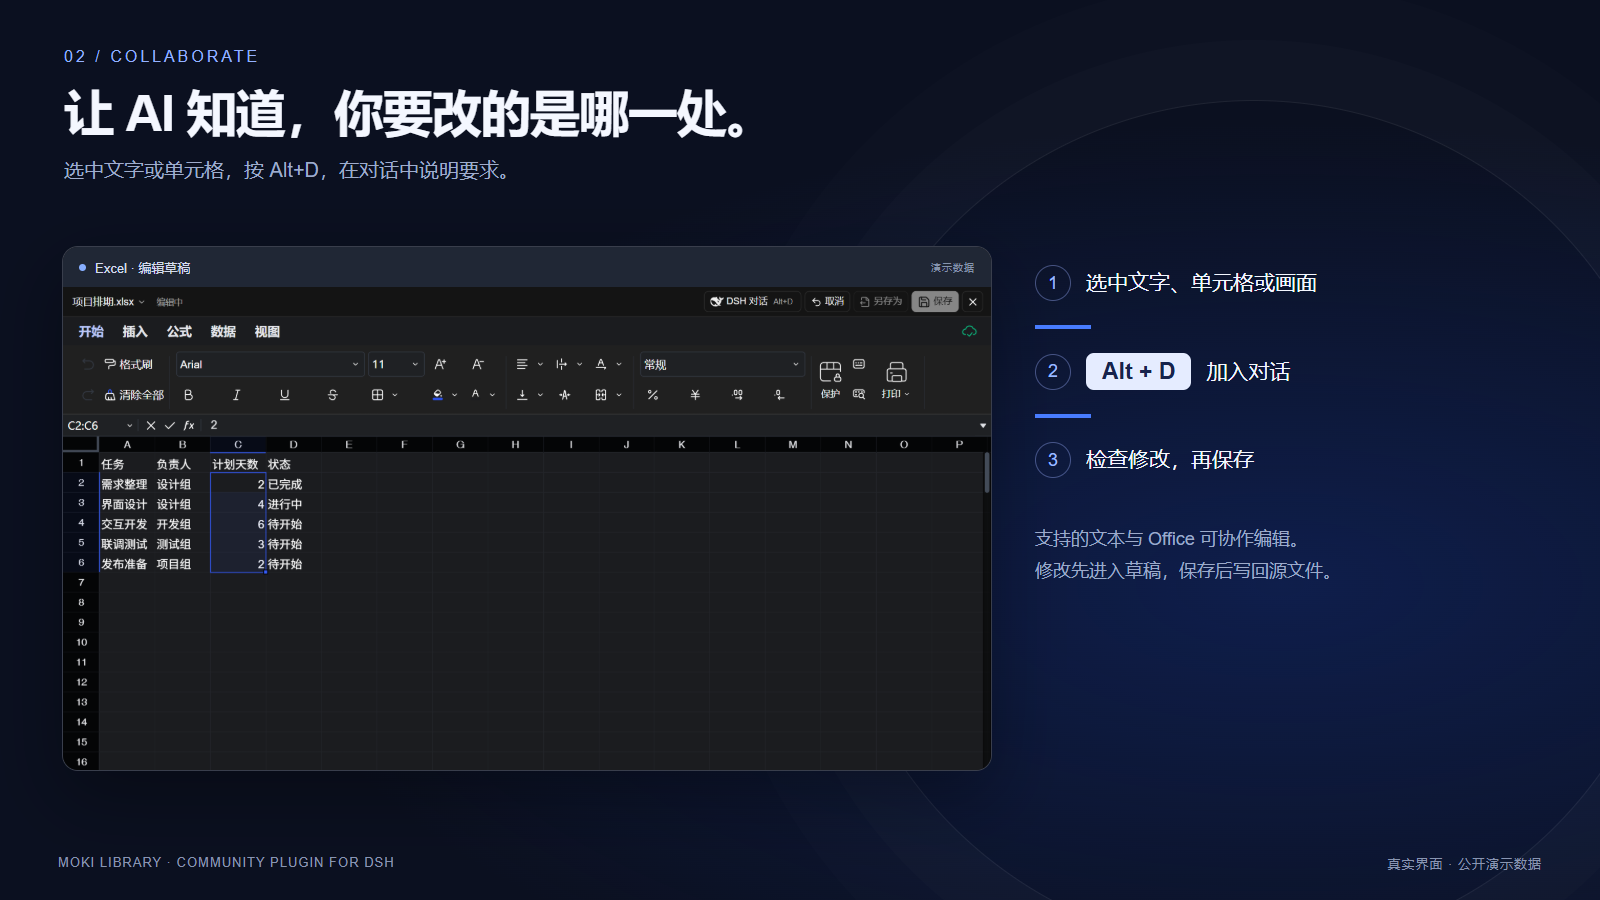
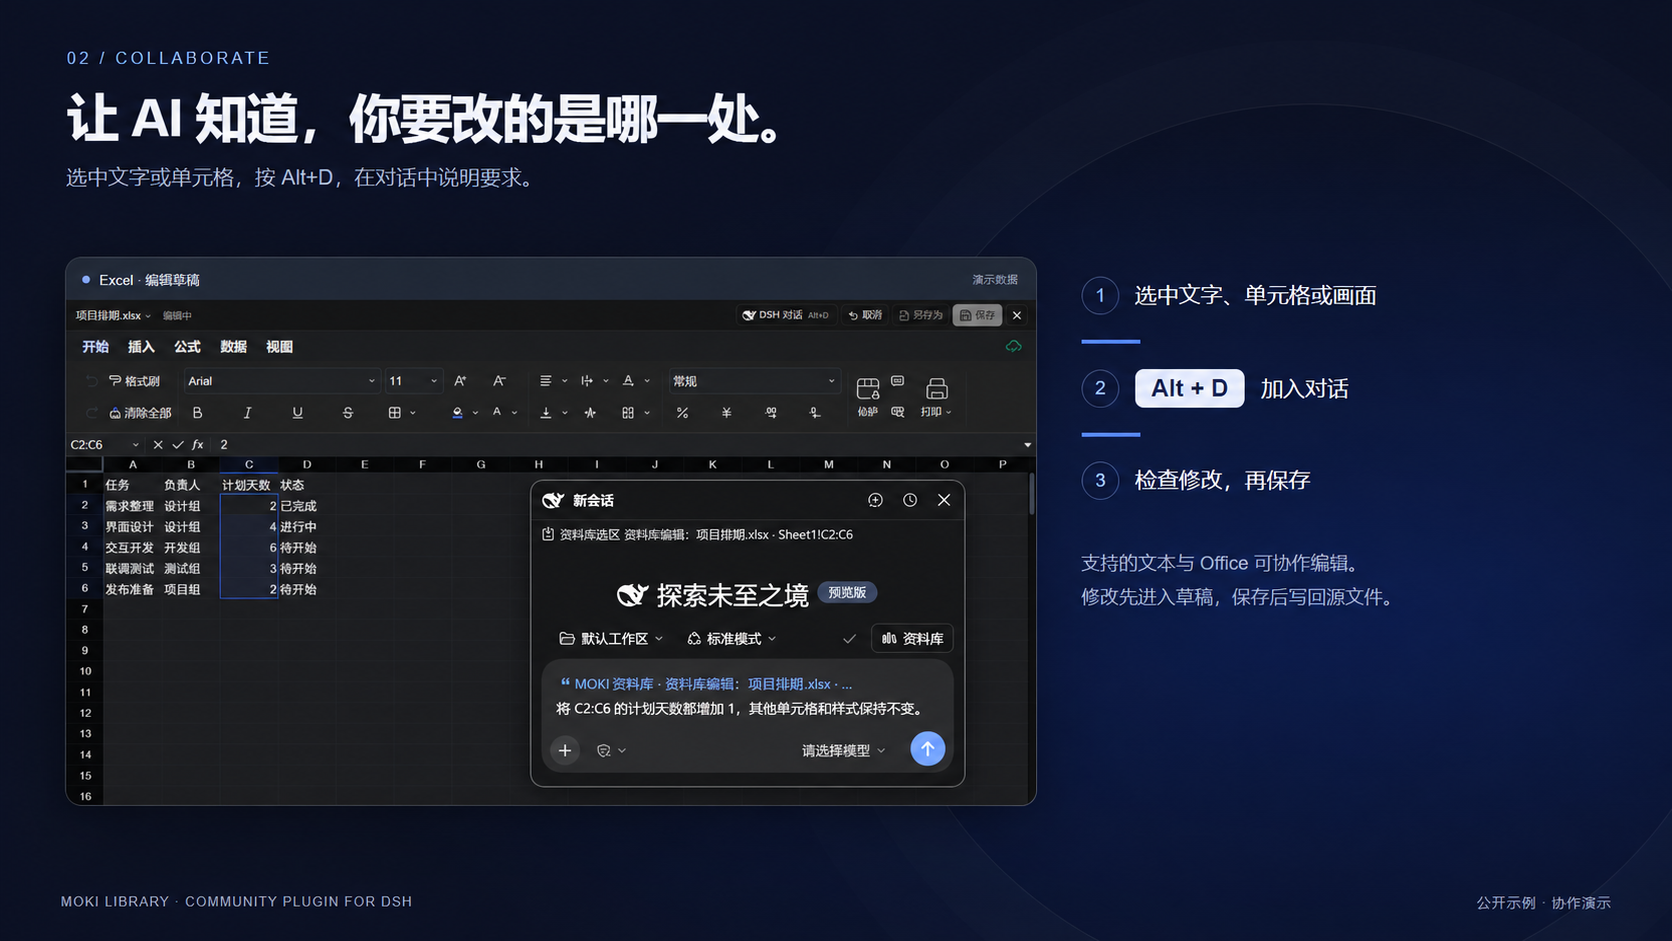
docs: add DSH floating chat to collaboration artwork

diff --git a/docs/social/README.md b/docs/social/README.md
@@ -5,7 +5,8 @@
 - `../media/dsh-workspace.png`: full DSH interface, library list and conversation reference / DSH 完整界面、资料库列表与会话引用输入（1600 × 900）。
 - `../media/dsh-workspace-cards.png`: full DSH interface in card mode / DSH 完整界面的卡片模式版本（1600 × 900）。
 - `../media/library.png`: file management demonstration / 文件管理演示图。
-- `../media/editing.png`: selection and editing demonstration / 选区编辑演示图。
+- `../media/editing.png`: Excel selection with DSH floating chat / Excel 选区与 DSH 对话浮窗协作示意图。
+- `../media/raw/dsh-floating-chat.png`: original floating-composer capture with an unsent selection request / 带选区引用与待发送要求的原始浮窗截图。
 - `../media/previews.png`: format preview demonstration / 多格式预览演示图。
 - `../media/social-02-library.png` through `social-05-install.png`: portrait feature cards / 竖版功能配图。
 - [Feature introduction / 功能介绍](../features.md).
@@ -13,16 +14,16 @@
 - [Illustrated usage demos / 图文用法演示](../usage-demos.zh-CN.md) · [English](../usage-demos.md).
 - [Preview and editing formats / 预览与编辑格式](../formats.zh-CN.md) · [English](../formats.md).
 
-The r5 kit refines the portrait cover with a compact, gently tilted stack of file-management and editing panels, matching window headers and larger visible UI content. Both covers use **给DSH加个资源管理器 让AI生成井然有序** — “Give DSH a file explorer. Keep AI-generated work organized.” The kit also includes full DSH interface screenshots showing selected library files alongside a native conversation reference and an example request. Both interface views were captured from local DSH Web using purpose-made files and an unsent composer draft.
+The r6 kit adds DSH floating chat to the Excel collaboration illustration, using a real capture of a `Sheet1!C2:C6` reference and an unsent editing request. The original floating-chat screenshot is included. The portrait cover uses a compact layered layout with matching window headers and larger visible UI content. Both covers use **给DSH加个资源管理器 让AI生成井然有序** — “Give DSH a file explorer. Keep AI-generated work organized.” Full DSH interface screenshots were captured from local DSH Web using purpose-made files and an unsent composer draft.
 
-r5 素材包优化竖版封面的界面排版：文件管理和编辑窗口紧凑错位叠放，统一窗口标题栏，放大主要界面内容。横、竖封面的副标题均为「给DSH加个资源管理器 让AI生成井然有序」。同时包含 DSH 完整界面展示图：右侧资料库选中文件，左侧原生输入框显示引用和示例问题；提供列表与卡片两种版本。两张均为本机 DSH Web 实拍，使用演示资料，未发送输入草稿。
+r6 素材包为 Excel 协作示意图加入 DSH 对话浮窗，展示真实界面中的 `Sheet1!C2:C6` 引用与待发送的修改要求，并附原始浮窗截图。竖版封面延续紧凑叠放的界面排版。横、竖封面的副标题均为「给DSH加个资源管理器 让AI生成井然有序」。完整 DSH 界面展示图提供列表和卡片两种版本，均为本机 DSH Web 实拍，使用演示资料与未发送的输入草稿。
 
-Download the latest [moki-library-media-kit-v0.1.58-r5.zip](https://github.com/JKZeng-cell/moki-library-for-dsh/releases/download/v0.1.58/moki-library-media-kit-v0.1.58-r5.zip). Earlier media archives remain available in the [release](https://github.com/JKZeng-cell/moki-library-for-dsh/releases/tag/v0.1.58).
+Download the latest [moki-library-media-kit-v0.1.58-r6.zip](https://github.com/JKZeng-cell/moki-library-for-dsh/releases/download/v0.1.58/moki-library-media-kit-v0.1.58-r6.zip). Earlier media archives remain available in the [release](https://github.com/JKZeng-cell/moki-library-for-dsh/releases/tag/v0.1.58).
 
 The covers use the title **资料库 for DSH** and subtitle **给DSH加个资源管理器 让AI生成井然有序**, with slightly tilted, layered windows giving file management and editing comparable visual weight. A smaller monochrome DSH mark sits in the footer.
 
 封面使用「资料库 for DSH」标题和「给DSH加个资源管理器 让AI生成井然有序」副标题，文件管理与编辑界面以接近的视觉分量倾斜叠放，DSH 标志缩小并融入页脚。素材包包含完整的中英文介绍、逐步演示和格式支持表。
 
-Raw screenshots and feature demonstrations use purpose-made sample data. Covers are promotional compositions edited from these references; use the raw screenshots and step-by-step guides when inspecting actual UI behavior. The supplied official DeepSeek Harness mark identifies the host application and is not a claim of endorsement. Do not replace demo assets with personal library screenshots when sharing.
+Raw screenshots and feature demonstrations use purpose-made sample data. Covers and the floating-chat collaboration illustration are promotional compositions edited from these references; use the raw screenshots and step-by-step guides when inspecting actual UI behavior. The supplied official DeepSeek Harness mark identifies the host application and is not a claim of endorsement. Do not replace demo assets with personal library screenshots when sharing.
 
-原始截图与功能演示使用专门制作的示例资料；封面是以这些界面为参考的宣传编排，核对实际界面请查看原始截图和图文教程。DSH 标志用于标识宿主应用，不代表官方背书。
+原始截图与功能演示使用专门制作的示例资料；封面和带浮窗的协作示意图是以这些界面为参考的宣传编排，核对实际界面请查看原始截图和图文教程。DSH 标志用于标识宿主应用，不代表官方背书。

diff --git a/README.md b/README.md
@@ -30,7 +30,9 @@ Move from finding a file to reading, selecting, editing and saving it in one wor
 
 ![Library in list and card views, using public demonstration files](docs/media/library.png)
 
-![Selection collaboration and editing, using public demonstration files](docs/media/editing.png)
+![Excel selection and DSH floating chat, composed from public demonstration UI captures](docs/media/editing.png)
+
+The collaboration illustration includes the DSH floating composer with a `Sheet1!C2:C6` reference and an unsent request. [Original floating-chat capture](docs/media/raw/dsh-floating-chat.png).
 
 ## Install
 
